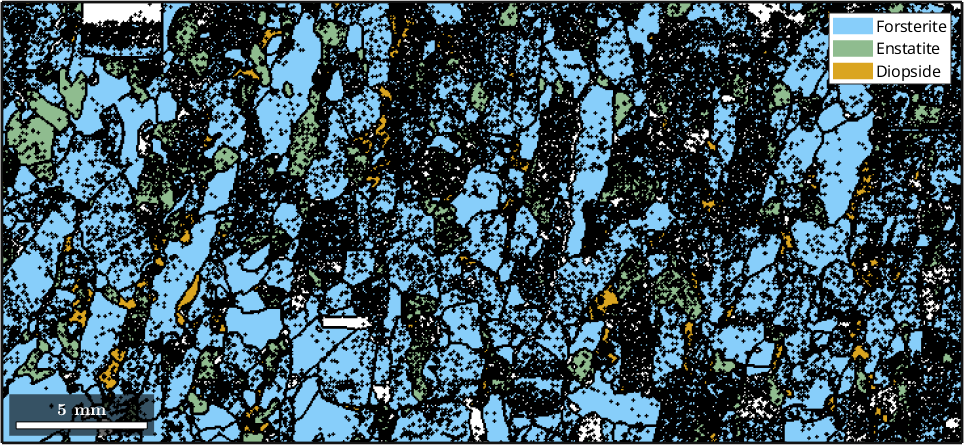
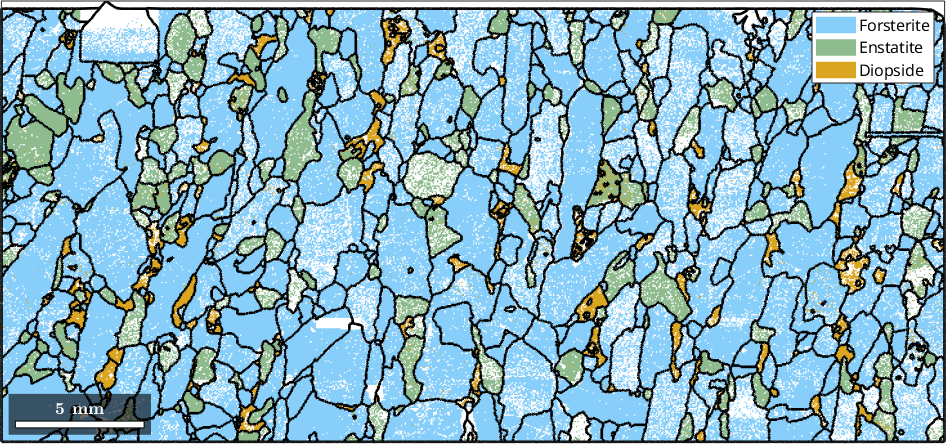
docu

diff --git a/pages/documentation_matlab/MTEXScripts.html b/pages/documentation_matlab/MTEXScripts.html
@@ -55,7 +55,7 @@ ebsd = EBSD
  Normal vector: (0,0,1)
 {% endhighlight %}
 <p>imports data from the file <code class="language-plaintext highlighter-rouge">fileName.ctf</code> and stores them in the variable <code class="language-plaintext highlighter-rouge">ebsd</code> of type <a href="https://mtex-toolbox.github.io/EBSD.EBSD.html"><code class="language-plaintext highlighter-rouge">EBSD</code></a>.</p>
-<p>Next one can pass the variable <code class="language-plaintext highlighter-rouge">ebsd</code> to diferent MTEX function. E.g. to plot a phase plot one simply does</p>
+<p>Next one can pass the variable <code class="language-plaintext highlighter-rouge">ebsd</code> to different MTEX function. E.g. to plot a phase plot one simply does</p>
 {% highlight matlab %}
 plot(ebsd)
 {% endhighlight %}
@@ -64,21 +64,20 @@ plot(ebsd)
 </center>
 <p>The grain structure is reconstructed by the command</p>
 {% highlight matlab %}
-grains = calcGrains(ebsd)
+grains = calcGrains(ebsd('indexed'),'minPixel',3)
 {% endhighlight %}
 
 {% highlight plaintext %}
 grains = grain2d
  
  Phase  Grains  Pixels     Mineral  Symmetry  Crystal reference frame
-     0   16334   58485  notIndexed                                   
-     1    4092  152345  Forsterite       mmm                         
-     2    1864   26058   Enstatite       mmm                         
-     3    1991    9064    Diopside     12/m1       X||a*, Y||b*, Z||c
+     1     484  151683  Forsterite       mmm                         
+     2     223   25747   Enstatite       mmm                         
+     3     229    7674    Diopside     12/m1       X||a*, Y||b*, Z||c
  
- boundary segments: 150087 (7.4e+06 µm)
- inner boundary segments: 33 (1650 µm)
- triple points: 11456
+ boundary segments: 36820 (1.7e+06 µm)
+ inner boundary segments: 287 (13197 µm)
+ triple points: 1549
  
  Properties: meanRotation, GOS
 {% endhighlight %}
@@ -91,7 +90,7 @@ hold off
 <center>
 {% include inline_image.html file="MTEXScripts_02.png" %}
 </center>
-<p>An MTEX script is a sequence of MTEX commands. Usually, these are accompanied by comments (lines starting with <code class="language-plaintext highlighter-rouge">%</code>), describing the purpose of each command and making the scipt understandable in the future. It is also good practice to subdivide MTEX scripts into sections by adding lines starting with <code class="language-plaintext highlighter-rouge">%%</code> and executing those scripts only section by section <code class="language-plaintext highlighter-rouge">Shift Strg Enter</code>.</p>
+<p>An MTEX script is a sequence of MTEX commands. Usually, these are accompanied by comments (lines starting with <code class="language-plaintext highlighter-rouge">%</code>), describing the purpose of each command and making the script understandable in the future. It is also good practice to subdivide MTEX scripts into sections by adding lines starting with <code class="language-plaintext highlighter-rouge">%%</code> and executing those scripts only section by section <code class="language-plaintext highlighter-rouge">Shift Strg Enter</code>.</p>
 </div>
 </body>
 </html>
